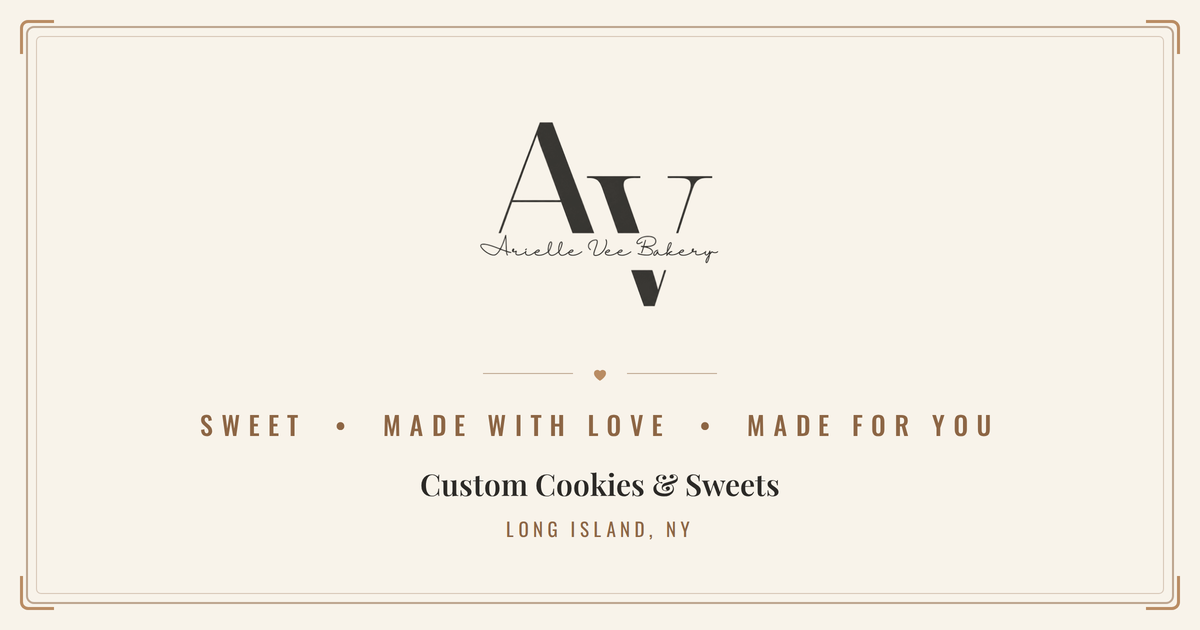
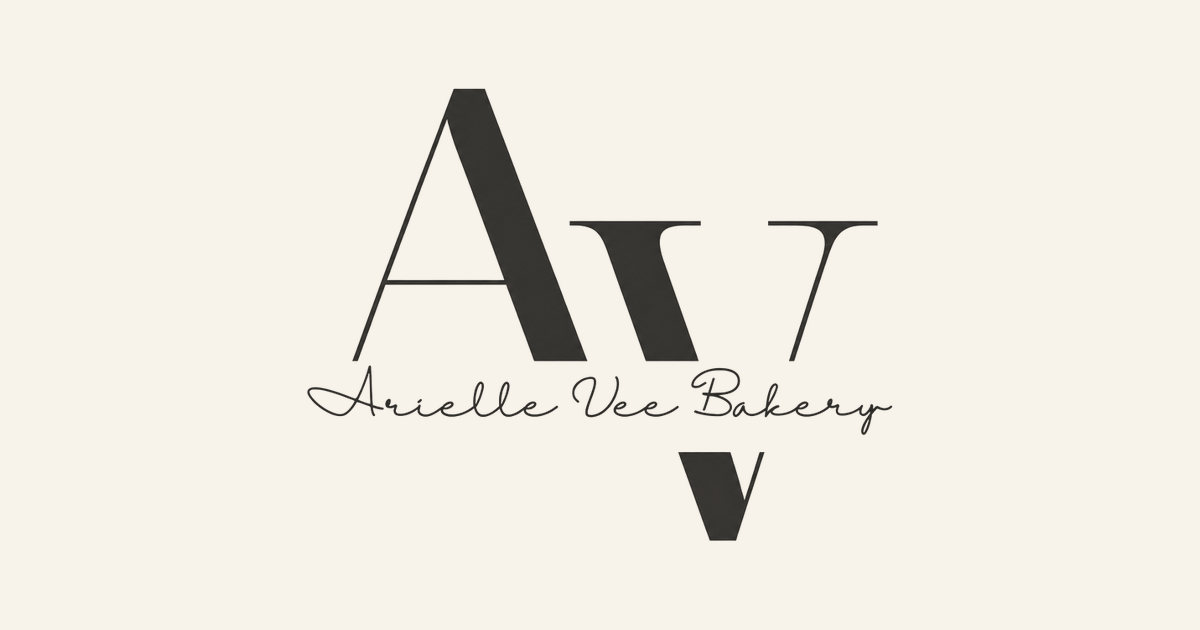
Added gallery and changed og image.

diff --git a/index.html b/index.html
@@ -25,13 +25,13 @@
 
 <!-- ============================================================
      ARIELLE VEE BAKERY — one-page site
-     Built as a single self-contained file (logo embedded).
+     Deploy folder: index.html + og-image.png + images/gallery/*.jpg (all in this folder).
      TODO before launch — search for "TODO" to find these:
        1. EMAIL address -> replace [email redacted] (contact line + mailto)
        2. CONTACT FORM  -> wired for Netlify; after 1st deploy add the email notification (see comment at <form>)
-       3. SHARE IMAGE   -> deploy og-image.png in the same folder as index.html (URLs already set to the netlify address)
-       3. GALLERY       -> drop real photos into the .g-tile slots
+       3. SHARE IMAGE   -> og-image.png ships in this folder; URLs already set to the netlify address
        4. ABOUT copy    -> confirm / tweak Arielle's bio
+     (Gallery photos are in place — logo & menu icons stay embedded in this file.)
 ============================================================ -->
 
 <link rel="preconnect" href="https://fonts.googleapis.com">
@@ -261,30 +261,27 @@ header.scrolled{box-shadow:0 10px 30px -22px rgba(78,53,30,.5)}
 }
 .ticket .script{font-family:var(--font-script);font-size:1.9rem;color:var(--kraft-deep);line-height:1}
 
-/* ---------- gallery ---------- */
+/* ---------- gallery (masonry) ---------- */
 .gallery{
-  display:grid;grid-template-columns:repeat(4,1fr);
-  gap:14px;max-width:1040px;margin:0 auto;
+  column-count:3;column-gap:14px;
+  max-width:1080px;margin:0 auto;
 }
 .g-tile{
-  position:relative;aspect-ratio:1/1;border-radius:var(--radius);overflow:hidden;
-  background:linear-gradient(150deg,var(--cream-2),var(--blush));
-  border:1px solid var(--line);
-  cursor:pointer;
-  transition:transform .2s ease,box-shadow .2s ease;
+  position:relative;break-inside:avoid;margin:0 0 14px;
+  border-radius:6px;overflow:hidden;border:1px solid var(--line);
+  cursor:pointer;display:block;
+  box-shadow:0 12px 28px -22px rgba(78,53,30,.5);
 }
-.g-tile:hover{transform:translateY(-3px);box-shadow:var(--shadow)}
-.g-tile.wide{grid-column:span 2;aspect-ratio:2/1}
-.g-tile img{width:100%;height:100%;object-fit:cover}
-/* placeholder face */
-.g-ph{position:absolute;inset:0;display:grid;place-content:center;text-align:center;gap:8px;padding:14px}
-.g-ph svg{width:30px;height:30px;color:var(--kraft);margin:0 auto;opacity:.85}
-.g-ph .lbl{
-  font-family:var(--font-label);text-transform:uppercase;letter-spacing:.14em;
-  font-size:.74rem;color:var(--kraft-deep);font-weight:500;
+.g-tile img{width:100%;height:auto;display:block;transition:transform .55s ease}
+.g-tile:hover img{transform:scale(1.045)}
+.g-cap{
+  position:absolute;left:0;right:0;bottom:0;
+  padding:30px 15px 13px;
+  background:linear-gradient(transparent,rgba(35,28,22,.82));
+  color:#fdf7ee;font-family:var(--font-label);text-transform:uppercase;
+  letter-spacing:.13em;font-size:.72rem;font-weight:500;pointer-events:none;
 }
-.g-ph .soon{font-family:var(--font-body);font-style:italic;font-size:.72rem;color:var(--ink-soft);opacity:.75}
-.g-note{text-align:center;margin-top:26px;font-style:italic;color:var(--ink-soft);font-size:.9rem}
+.g-note{text-align:center;margin-top:30px;font-style:italic;color:var(--ink-soft);font-size:.9rem}
 .g-note a{color:var(--kraft-deep);border-bottom:1px solid var(--line-strong)}
 
 /* lightbox */
@@ -395,7 +392,6 @@ footer{background:var(--ink);color:#e9e0d3;padding:0 0 40px}
   .field input,.field select,.field textarea{background:#F8F3EA !important;color:#2B2926 !important;}
   .btn-solid{background:#2B2926 !important;color:#F8F3EA !important;}
   footer{background:#2B2926 !important;color:#e9e0d3 !important;}
-  .g-tile{background:linear-gradient(150deg,#F1E7D5,#F3E3DB) !important;}
 }
 
 /* ---------- responsive ---------- */
@@ -416,7 +412,7 @@ footer{background:var(--ink);color:#e9e0d3;padding:0 0 40px}
   .hero-logo{height:clamp(132px,38vw,170px)}
   .about,.contact-grid{grid-template-columns:1fr}
   .about-art{order:-1;max-width:340px;margin:0 auto;aspect-ratio:4/4}
-  .gallery{grid-template-columns:repeat(2,1fr)}
+  .gallery{column-count:2}
   .menu-grid{grid-template-columns:1fr}
   .menu-grid::before,.menu-grid::after{display:none}
   .m-item{border-bottom:1px dotted var(--line-strong);padding-bottom:24px}
@@ -424,7 +420,6 @@ footer{background:var(--ink);color:#e9e0d3;padding:0 0 40px}
 }
 @media(max-width:460px){
   .two{grid-template-columns:1fr}
-  .g-tile.wide{grid-column:span 2}
 }
 
 @media(prefers-reduced-motion:reduce){
@@ -556,19 +551,20 @@ footer{background:var(--ink);color:#e9e0d3;padding:0 0 40px}
       <p>From bridal showers to holidays, first communions to "just because" — here's a look at what a custom order can become.</p>
     </div>
 
-    <!-- GALLERY TILES
-         To add a real photo, replace the inner .g-ph block with:
-           <img src="images/your-photo.jpg" alt="describe the bake" data-full="images/your-photo.jpg">
-         The lightbox picks it up automatically (it opens any .g-tile that contains an <img>). -->
+    <!-- GALLERY TILES — real photos, masonry layout, click opens the lightbox.
+         Images live in images/gallery/. To add more, copy a tile and point src at the new file. -->
     <div class="gallery reveal">
-      <div class="g-tile wide" data-cat="Bridal Showers"><div class="g-ph"><svg viewBox="0 0 24 24" fill="none" stroke="currentColor" stroke-width="1.6"><path d="M12 21s-8-4.6-8-10a4.5 4.5 0 0 1 8-2.8A4.5 4.5 0 0 1 20 11c0 5.4-8 10-8 10z"/></svg><span class="lbl">Bridal Showers</span><span class="soon">Photo coming soon</span></div></div>
-      <div class="g-tile" data-cat="Baby Showers"><div class="g-ph"><svg viewBox="0 0 24 24" fill="none" stroke="currentColor" stroke-width="1.6"><circle cx="12" cy="8" r="4"/><path d="M4 20c0-4 3.6-7 8-7s8 3 8 7"/></svg><span class="lbl">Baby Showers</span><span class="soon">Photo coming soon</span></div></div>
-      <div class="g-tile" data-cat="Weddings"><div class="g-ph"><svg viewBox="0 0 24 24" fill="none" stroke="currentColor" stroke-width="1.6"><path d="M6 20V9l6-4 6 4v11z"/><path d="M9 20v-6h6v6"/></svg><span class="lbl">Weddings</span><span class="soon">Photo coming soon</span></div></div>
-      <div class="g-tile" data-cat="Communion & Baptism"><div class="g-ph"><svg viewBox="0 0 24 24" fill="none" stroke="currentColor" stroke-width="1.6"><path d="M12 3v18M7 8h10"/></svg><span class="lbl">Communion</span><span class="soon">Photo coming soon</span></div></div>
-      <div class="g-tile" data-cat="Holidays"><div class="g-ph"><svg viewBox="0 0 24 24" fill="none" stroke="currentColor" stroke-width="1.6"><path d="M12 2l3 7h7l-5.5 4.5L18 21l-6-4-6 4 1.5-7.5L2 9h7z"/></svg><span class="lbl">Holidays</span><span class="soon">Photo coming soon</span></div></div>
-      <div class="g-tile wide" data-cat="Custom Cakes"><div class="g-ph"><svg viewBox="0 0 24 24" fill="none" stroke="currentColor" stroke-width="1.6"><path d="M5 20h14V12H5z"/><path d="M7 12V9h10v3"/><path d="M12 4v3"/></svg><span class="lbl">Custom Cakes</span><span class="soon">Photo coming soon</span></div></div>
-      <div class="g-tile" data-cat="Birthdays"><div class="g-ph"><svg viewBox="0 0 24 24" fill="none" stroke="currentColor" stroke-width="1.6"><path d="M4 21h16v-8H4z"/><path d="M6 13v-3h12v3"/><path d="M12 4v4"/></svg><span class="lbl">Birthdays</span><span class="soon">Photo coming soon</span></div></div>
-      <div class="g-tile" data-cat="Teacher Appreciation"><div class="g-ph"><svg viewBox="0 0 24 24" fill="none" stroke="currentColor" stroke-width="1.6"><path d="M3 7l9-4 9 4-9 4z"/><path d="M7 9v5c0 1.5 2.2 3 5 3s5-1.5 5-3V9"/></svg><span class="lbl">Teacher Gifts</span><span class="soon">Photo coming soon</span></div></div>
+      <div class="g-tile"><img src="images/gallery/valentina-heart-cookies.jpg" alt="Red heart cookies hand-lettered with the name Valentina" loading="lazy"><span class="g-cap">Custom Design Cookies</span></div>
+      <div class="g-tile"><img src="images/gallery/baby-shower-cookies.jpg" alt="Pale pink and white baby shower cookies — onesies, rattles and decorated ovals" loading="lazy"><span class="g-cap">Baby Shower Cookies</span></div>
+      <div class="g-tile"><img src="images/gallery/cake-pops.jpg" alt="Bright pink cake pops with white nonpareil sprinkles" loading="lazy"><span class="g-cap">Cake Pops</span></div>
+      <div class="g-tile"><img src="images/gallery/graduation-cookies.jpg" alt="Navy and gold graduation cookies with 2024 caps, diplomas and tassels" loading="lazy"><span class="g-cap">Graduation Cookies</span></div>
+      <div class="g-tile"><img src="images/gallery/wedding-cake.jpg" alt="Two-tier white wedding cake with baby's breath and greenery" loading="lazy"><span class="g-cap">Custom Cakes</span></div>
+      <div class="g-tile"><img src="images/gallery/strawberry-first-birthday.jpg" alt="Strawberry and pink number-one cookies for a first birthday" loading="lazy"><span class="g-cap">Strawberry First Birthday</span></div>
+      <div class="g-tile"><img src="images/gallery/cloud-cookies.jpg" alt="White cloud cookies with sleepy faces, pink cheeks and gold stars" loading="lazy"><span class="g-cap">Cloud Cookies</span></div>
+      <div class="g-tile"><img src="images/gallery/ombre-smash-cake.jpg" alt="Pink ombré rosette smash cake with a strawberry one topper" loading="lazy"><span class="g-cap">Birthday Cake</span></div>
+      <div class="g-tile"><img src="images/gallery/shamrock-cupcakes.jpg" alt="Vanilla cupcakes with white frosting and green shamrock sprinkles" loading="lazy"><span class="g-cap">Shamrock Cupcakes</span></div>
+      <div class="g-tile"><img src="images/gallery/lemon-greenery-cake.jpg" alt="White buttercream cake finished with lemon slices and fresh greenery" loading="lazy"><span class="g-cap">Lemon &amp; Greenery Cake</span></div>
+      <div class="g-tile"><img src="images/gallery/strawberry-cupcakes.jpg" alt="Pink-frosted cupcakes with strawberry and one toppers" loading="lazy"><span class="g-cap">Strawberry Cupcakes</span></div>
     </div>
     <p class="g-note reveal">See more day-to-day on Instagram —
       <!-- TODO: confirm handle -->